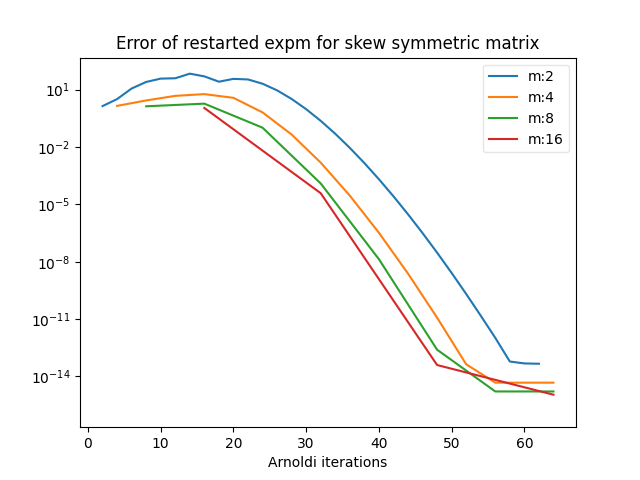
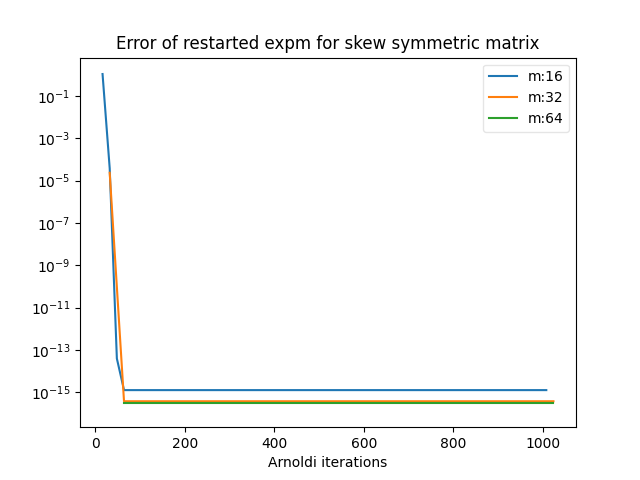
use sparse matrices

diff --git a/src/skew_symmetric.py b/src/skew_symmetric.py
@@ -1,9 +1,10 @@
 
 import scipy
-from np_funm import funm_krylov as np_funm_krylov
+from np_funm import funm_krylov_v2 as np_funm_krylov
 import numpy as np
 import matplotlib.pyplot as plt
 import os
+import time
 
 root_path = os.getcwd()
 
@@ -14,7 +15,7 @@ def get_block(j: int):
 
 
 def get_skew_symmetric_matrix(j=500):
-    return scipy.linalg.block_diag(0, *[get_block(j) for j in range(1, j + 1)])
+    return scipy.sparse.block_diag((0, *[get_block(j) for j in range(1, j + 1)]), format="csr")
 
 
 if __name__ == "__main__":
@@ -23,16 +24,18 @@ if __name__ == "__main__":
     b = np.ones(n) / np.linalg.norm(np.ones(n))
 
 
-    exact, _, _ = np_funm_krylov(A, b, {"restart_length": n, "num_restarts": 1})
-    for restart_length in [2, 4, 8, 16]:
-        num_restarts = 60 // restart_length + 1
+    exact, eigvals, _ = np_funm_krylov(A, b, {"restart_length": 1000, "num_restarts": 1})
+    for restart_length in [16, 32, 64]:
+        num_restarts = 200 // restart_length + 1
         param = {
             "restart_length": restart_length,
             "num_restarts": num_restarts
         }
 
         # Calculate the matrix exponential
+        start = time.time()
         npfs, npeigvals, npupdate_norms = np_funm_krylov(A, b, param)
+        print(time.time() - start)
         npnorms = list(np.linalg.norm(exact - npfs, axis=0))
         plt.plot(restart_length * np.arange(1, param["num_restarts"] + 1), npnorms, label=f"m:{restart_length}")
         #plt.scatter(np.arange(1, param["num_restarts"] + 1), npupdate_norms, label=f"m:{restart_length}")
@@ -45,6 +48,7 @@ if __name__ == "__main__":
     plt.show()
 
     plt.title("Ritz values of skew symmetric matrix")
+    plt.scatter(np.real(eigvals[0]), np.imag(eigvals[0]), marker="o", label="unrestarted")
     for k in [param["num_restarts"] - 1]:
         plt.scatter(np.real(npeigvals[k]), np.imag(npeigvals[k]), marker="x", label=(k + 1) * restart_length, s=20 - k)
 
